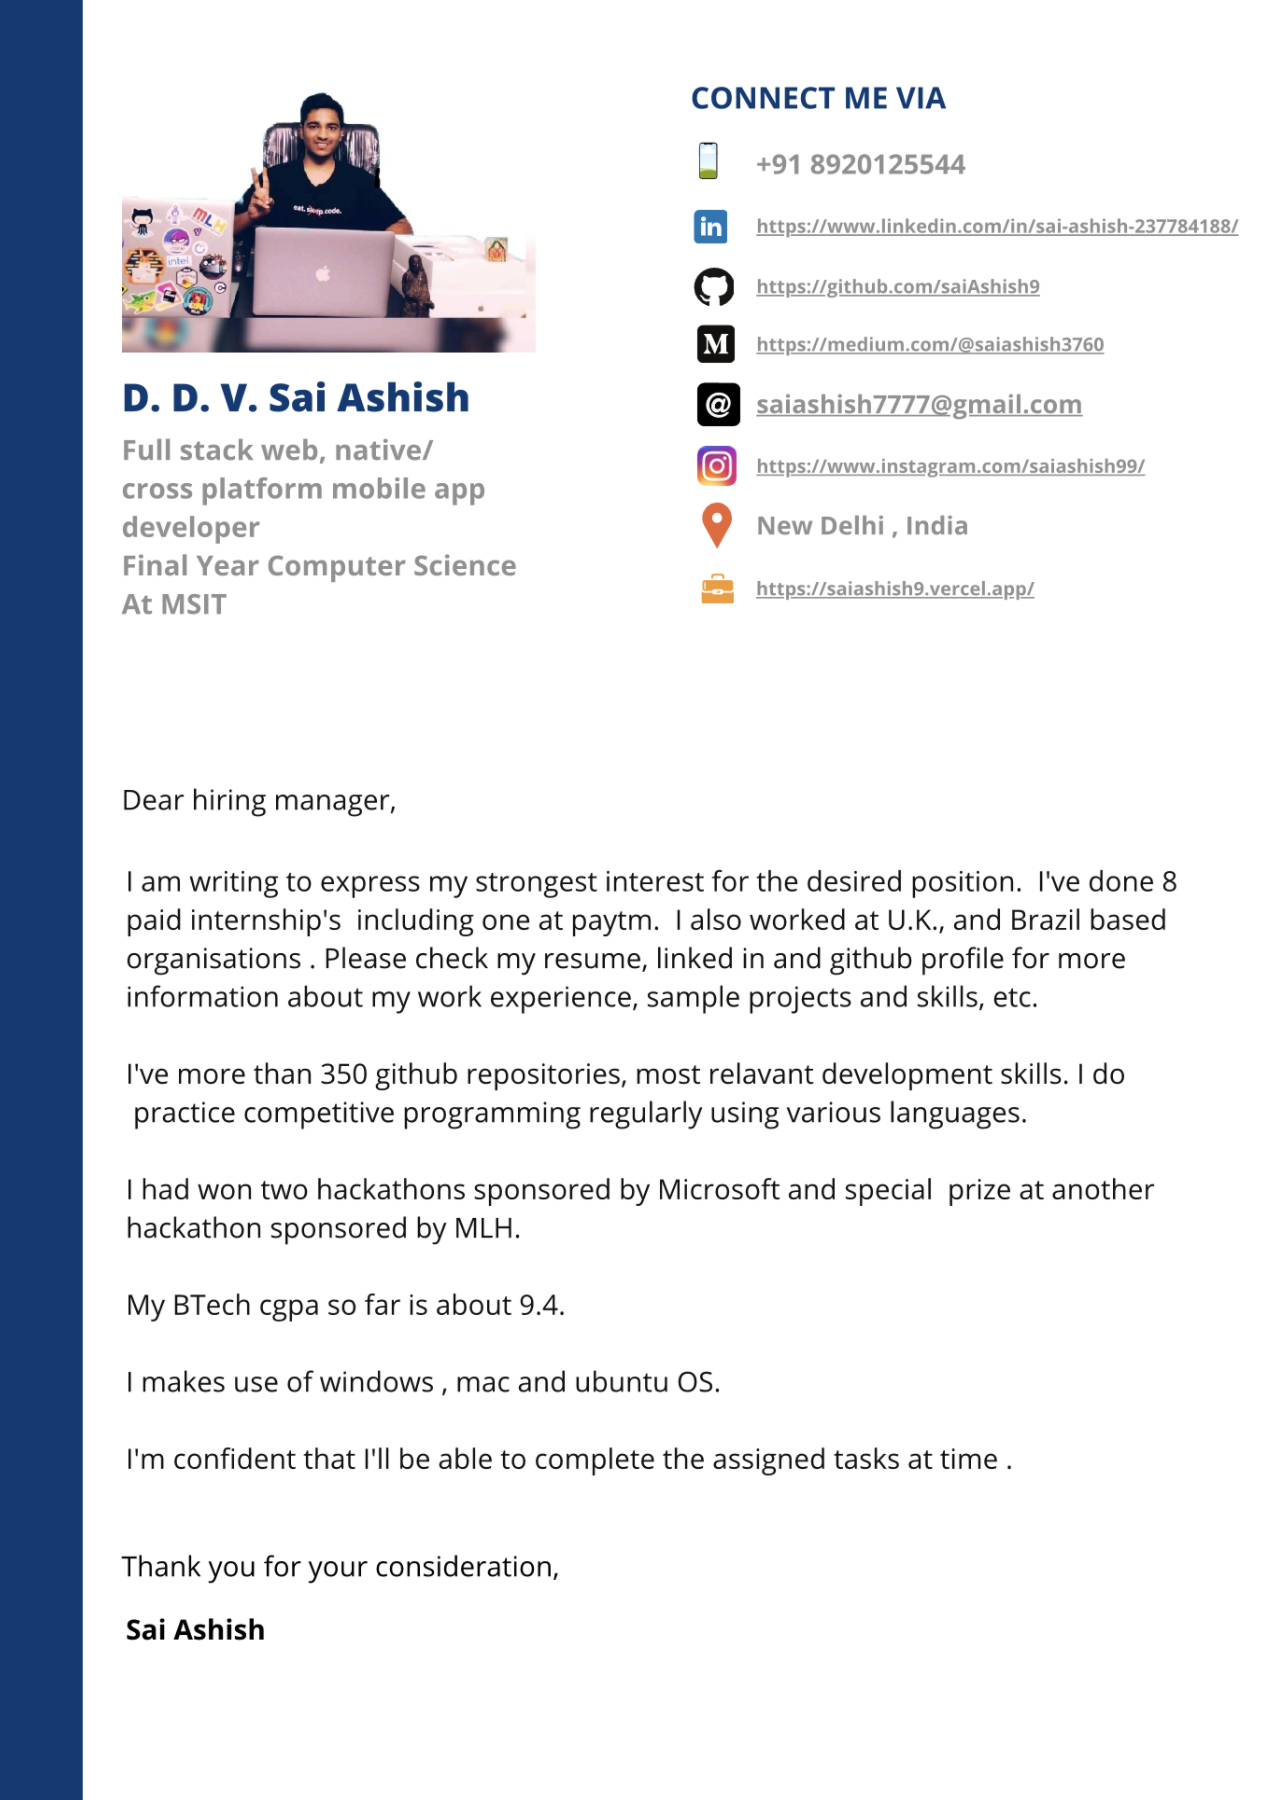
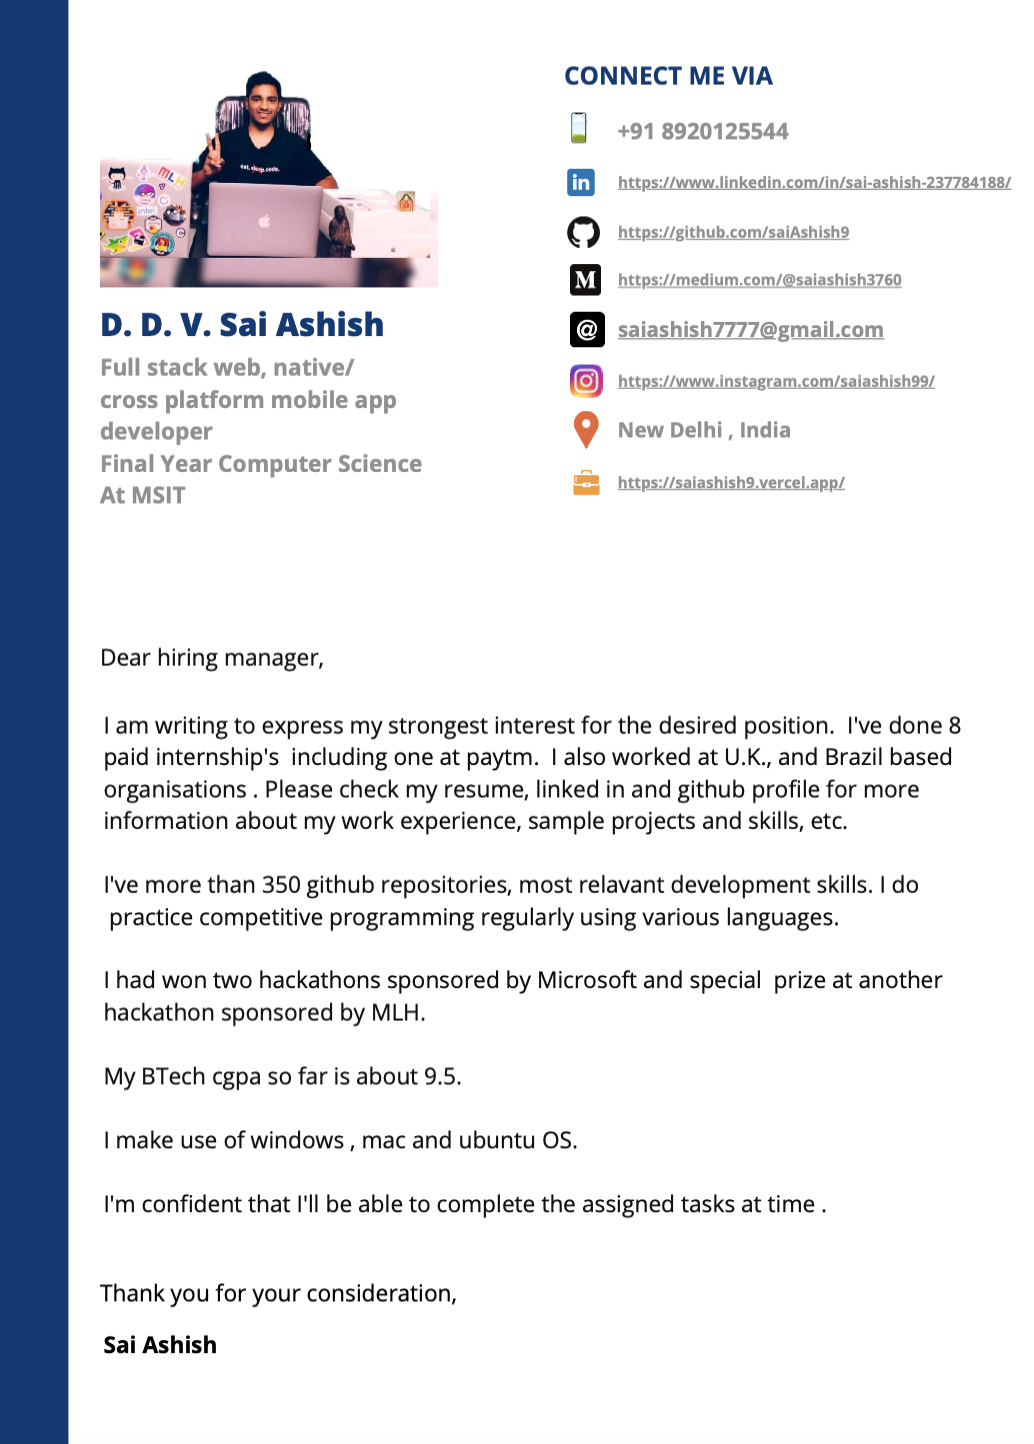
completed

diff --git a/src/screens/home/components/projects/index.js b/src/screens/home/components/projects/index.js
@@ -8,6 +8,7 @@ import {
   Content,
   Img,
   PlayPauseBtn,
+  Span,
 } from "./styles";
 
 import { Tabs } from "antd";
@@ -20,11 +21,15 @@ import {
   AiFillInstagram,
   AiFillLinkedin,
   AiOutlineAmazon,
+  AiFillGithub,
+  AiOutlineLink,
 } from "react-icons/ai";
 
 import { FaUserShield } from "react-icons/fa";
 
 import { BsPlayFill } from "react-icons/bs";
+
+import { SiMicrosoftteams } from "react-icons/si";
 
 import ReactPlayer from "react-player";
 
@@ -76,6 +81,20 @@ const Projects = () => {
       label: <I18n t="feelAtHome" />,
       tab: <FaUserShield size={ICON_SIZE + 5} color={ICON_COLOR} />,
       url: "https://www.youtube.com/watch?v=sU1mwLUPT34",
+    },
+    {
+      key: "teams",
+      link: "https://www.youtube.com/watch?v=sU1mwLUPT34",
+      label: <I18n t="teams" />,
+      tab: <SiMicrosoftteams size={ICON_SIZE + 5} color={ICON_COLOR} />,
+      url: "https://www.youtube.com/watch?v=hztkTJnqWdI",
+    },
+    {
+      key: "github",
+      link: "https://github.com/saiashish9",
+      label: <I18n t="github" />,
+      tab: <AiFillGithub size={ICON_SIZE + 5} color={ICON_COLOR} />,
+      url: "https://youtu.be/LeUUn7BJQ2I",
     },
   ];
 
@@ -131,7 +150,7 @@ const Projects = () => {
               )}
             </PlayerContainer>
             <Label onClick={() => onLableClick(links[0].link)}>
-              {links[0].label}
+              <AiOutlineLink /> <Span>{links[0].label}</Span>
             </Label>
           </Content>
         </TabPane>
@@ -141,7 +160,9 @@ const Projects = () => {
               <PlayerContainer>
                 <ReactPlayer height="16rem" width="100%" url={i.url} />
               </PlayerContainer>
-              <Label onClick={() => onLableClick(i.link)}>{i.label}</Label>
+              <Label onClick={() => onLableClick(i.link)}>
+                <AiOutlineLink /> <Span>{i.label}</Span>
+              </Label>
             </Content>
           </TabPane>
         ))}

diff --git a/src/languages/translations.js b/src/languages/translations.js
@@ -320,14 +320,14 @@ export const translations = [
   },
   {
     text: "cgpa",
-    en: "CGPA: 9.401",
-    pt: "CGPA: 9.401",
-    hi: "सीजीपीए: 9.401",
-    te: "సిజిపిఎ: 9.401",
-    de: "CGPA：9.401",
-    zh: "CGPA：9.401",
-    fr: "MPC : 9.401",
-    ru: "CGPA: 9.401",
+    en: "CGPA: 9.50",
+    pt: "CGPA: 9.50",
+    hi: "सीजीपीए: 9.50",
+    te: "సిజిపిఎ: 9.50",
+    de: "CGPA：9.50",
+    zh: "CGPA：9.50",
+    fr: "MPC : 9.50",
+    ru: "CGPA: 9.50",
   },
   {
     text: "github",
@@ -801,5 +801,16 @@ export const translations = [
     zh: "訪問網站",
     fr: "Visitez le site",
     ru: "Посетите сайт",
+  },
+  {
+    text: "teams",
+    en: "Microsoft Teams",
+    pt: "Microsoft Teams",
+    hi: "माइक्रोसॉफ्ट टीम",
+    te: "మైక్రోసాఫ్ట్ టీమ్స్",
+    de: "Microsoft Teams",
+    zh: "微軟團隊",
+    fr: "Équipes Microsoft",
+    ru: "Команды Microsoft",
   },
 ];

diff --git a/src/screens/home/components/projects/styles.js b/src/screens/home/components/projects/styles.js
@@ -57,8 +57,8 @@ export const PlayPauseBtn = styled.div`
 
 export const PlayerContainer = styled.div`
   width: 32vw;
-  min-height: 21rem;
-  padding-top: 3rem;
+  min-height: 19rem;
+  padding-top: 1rem;
   cursor: pointer;
   position: relative;
   ${Styles.CBC}
@@ -73,7 +73,7 @@ export const PlayerContainer = styled.div`
   }
   @media only screen and (max-width: ${BREAKPOINTS.sm}) {
     width: 100vw;
-    height: 18rem;
+    height: 20rem;
   }
 `;
 
@@ -150,9 +150,10 @@ export const StreamsTab = styled(Tabs)`
 
 export const Label = styled.a`
   text-align: center;
-  margin-top: 1.5rem;
+  margin-top: 0.1rem;
   text-decoration: underline;
   font-size: 1rem;
+  ${Styles.RBC}
   padding: 0px;
   position: relative;
   font-weight: ${FontWeight.medium};
@@ -166,4 +167,8 @@ export const Label = styled.a`
 export const Content = styled.div`
   width: 100%;
   ${Styles.CBC}
+`;
+
+export const Span = styled.span`
+  margin-left: 0.36rem;
 `;

diff --git a/src/screens/home/components/experience/index.js b/src/screens/home/components/experience/index.js
@@ -22,7 +22,11 @@ const data = [
     position: <I18n t="intern" />,
     exp: 3,
     id: 0,
-    images: [],
+    images: [
+      "https://res.cloudinary.com/saiashish/image/upload/v1633857822/WhatsApp_Image_2021-10-10_at_14.53.29_jlnfcb.jpg",
+      "https://res.cloudinary.com/saiashish/image/upload/v1633857709/WhatsApp_Image_2021-10-10_at_14.48.57_1_meqy86.jpg",
+      "https://res.cloudinary.com/saiashish/image/upload/v1633857709/WhatsApp_Image_2021-10-10_at_14.48.57_fefetd.jpg",
+    ],
     link: "https://paytm.com",
   },
   {
@@ -204,7 +208,7 @@ const Experience = () => {
   const [selectedExp, setSelectedExp] = useState(0);
 
   function handleClick(k) {
-    if (k === 0 || k === 4) {
+    if (k === 4) {
       const win = window.open(data[k]["link"], "_blank");
       win.focus();
     } else {

diff --git a/src/common/modal/styles.js b/src/common/modal/styles.js
@@ -87,7 +87,8 @@ export const Title = styled.p`
 
 export const Img = styled.img`
   height: 81%;
-  min-width: 80%;
+  min-width: 100%;
+  margin: auto;
   border-radius: 5px;
   margin-bottom: 1rem;
   @media only screen and (max-width: ${BREAKPOINTS.xxl}) {
@@ -104,6 +105,7 @@ export const Img = styled.img`
     css`
       height: 45vh !important;
       width: 80vw;
+      margin: auto;
       object-fit: contain;
       margin-top: 3rem !important;
       padding-right: 1rem;

diff --git a/src/common/modal/index.js b/src/common/modal/index.js
@@ -62,7 +62,7 @@ const Overlay = ({ data, visible, setVisible, label, site }) => {
       {data.images ? (
         <StyledSlider {...settings}>
           {data.images.map((i, k) => (
-            <Img key={k} alt="img" src={i} slider />
+            <Img alt="img" src={i} key={k} slider />
           ))}
         </StyledSlider>
       ) : (
